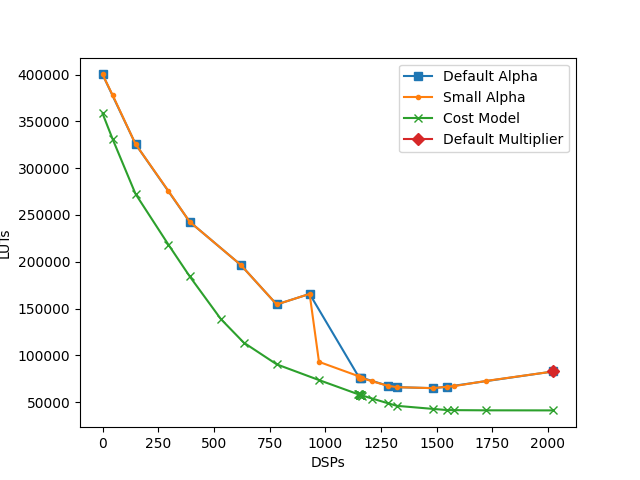
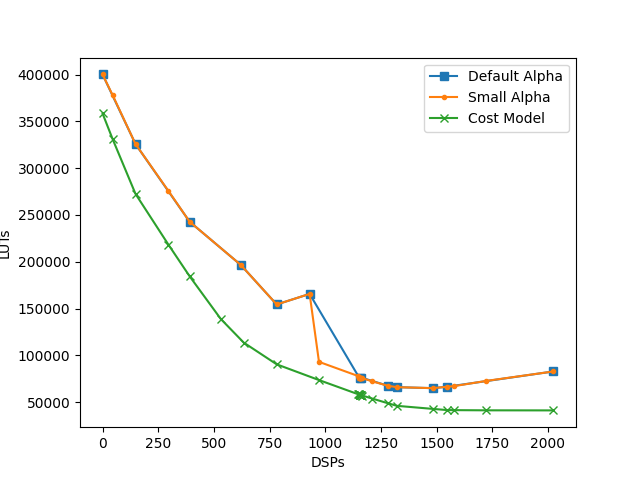
figmig

Changed region(s): [[0.625, 0.125, 0.875, 0.3125], [0.8438, 0.75, 0.875, 0.7812]]

diff --git a/misc/data/count_designs.py b/misc/data/count_designs.py
@@ -63,7 +63,7 @@ def main2():
                 lst.append((y['LUTs'], y['DSPs']))
             diction[name[0]] = lst
     
-    for bw in [512,1024]:
+    for bw in [1024]:
         normal = dic1[bw];         
         normal.sort(key = lambda i:i[1])
         more = dic2[bw]; more.sort(key = lambda i:i[1])
@@ -83,7 +83,8 @@ def main2():
         if bw == 512:
             plt.plot(900, 24230, label = 'Default Multiplier', marker='D')
         elif bw == 1024:
-            plt.plot(0, 1065019, label = 'Default Multiplier', marker='D')
+            #plt.plot(0, 1065019, label = 'Default Multiplier', marker='D')
+            a = 1
             
         #plt.plot(d1[-1], l1[-1], label='Default Multiplier', marker='D')
         plt.legend()
